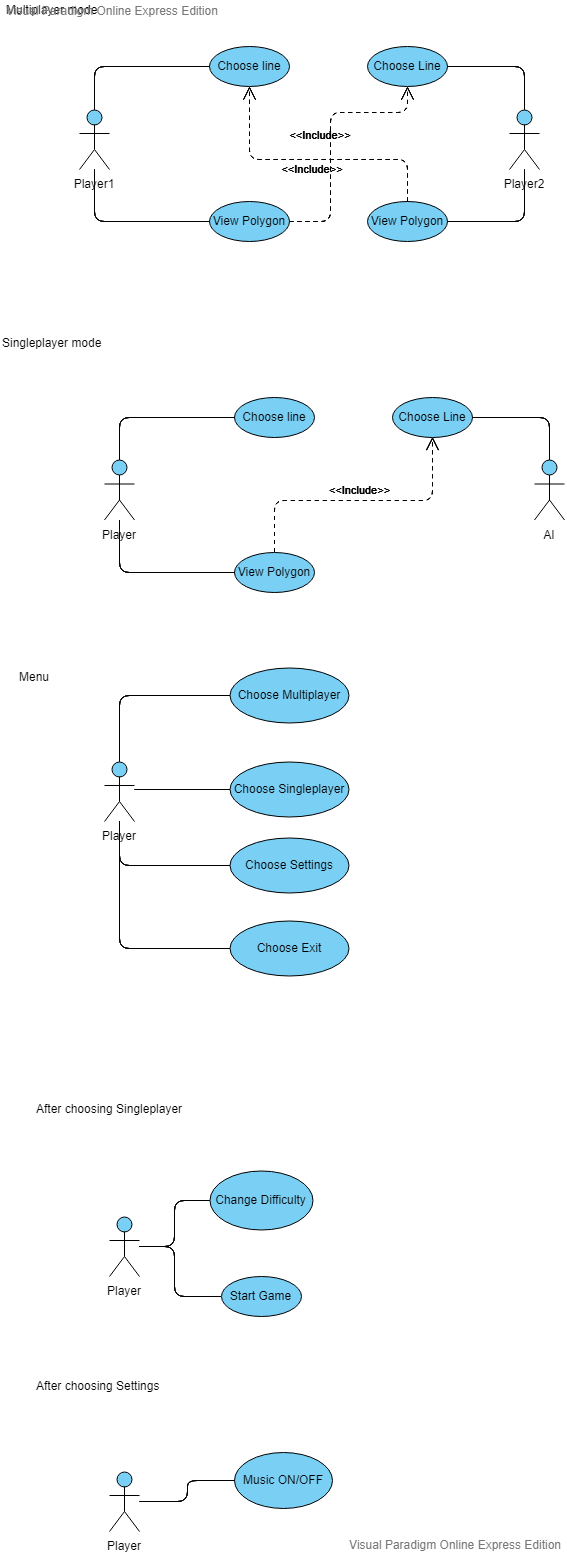
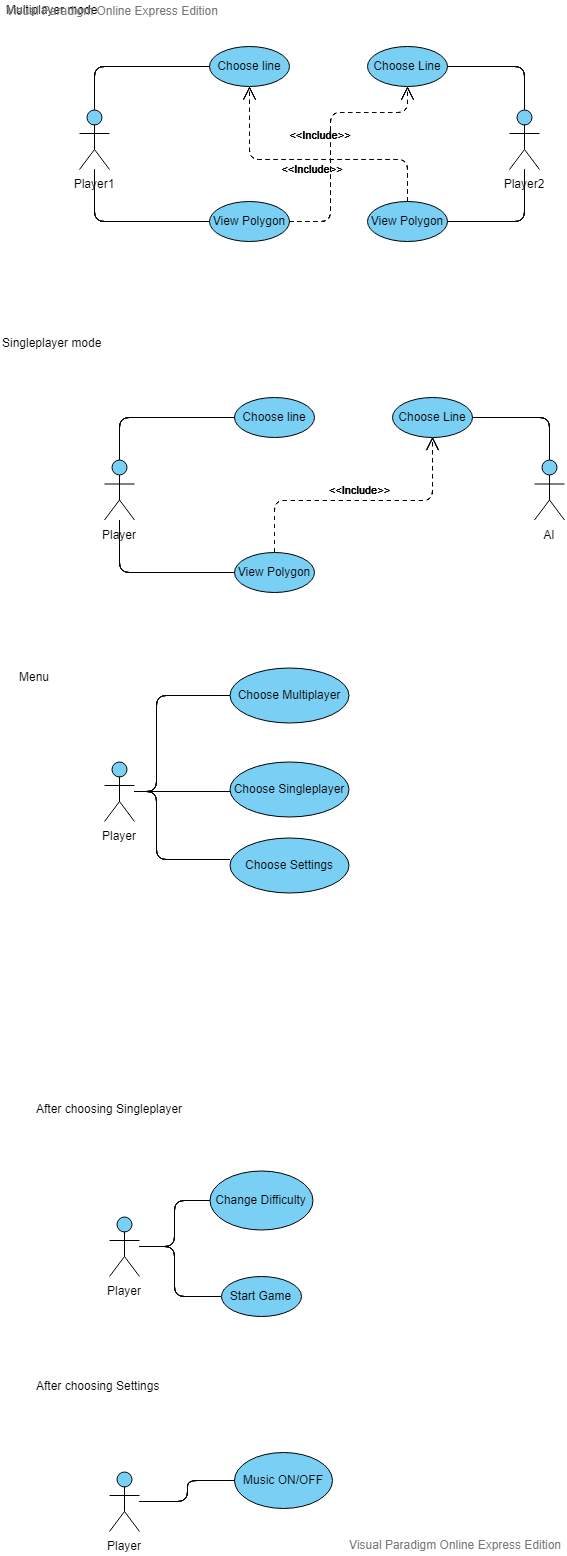
Exit removed

Changed region(s): [[0.3898, 0.5861, 0.6296, 0.6478], [0.2698, 0.4936, 0.2998, 0.5244]]

diff --git a/Polygame/app/src/main/java/hu/bme/aut/android/polygame/MainActivity.kt b/Polygame/app/src/main/java/hu/bme/aut/android/polygame/MainActivity.kt
@@ -45,8 +45,4 @@ class MainActivity : AppCompatActivity() {
     fun onSettingsClick(view: View){
         startActivity(Intent(this, SettingsActivity::class.java))
     }
-
-    fun onExitClick(view: View){
-        finish()
-    }
 }
